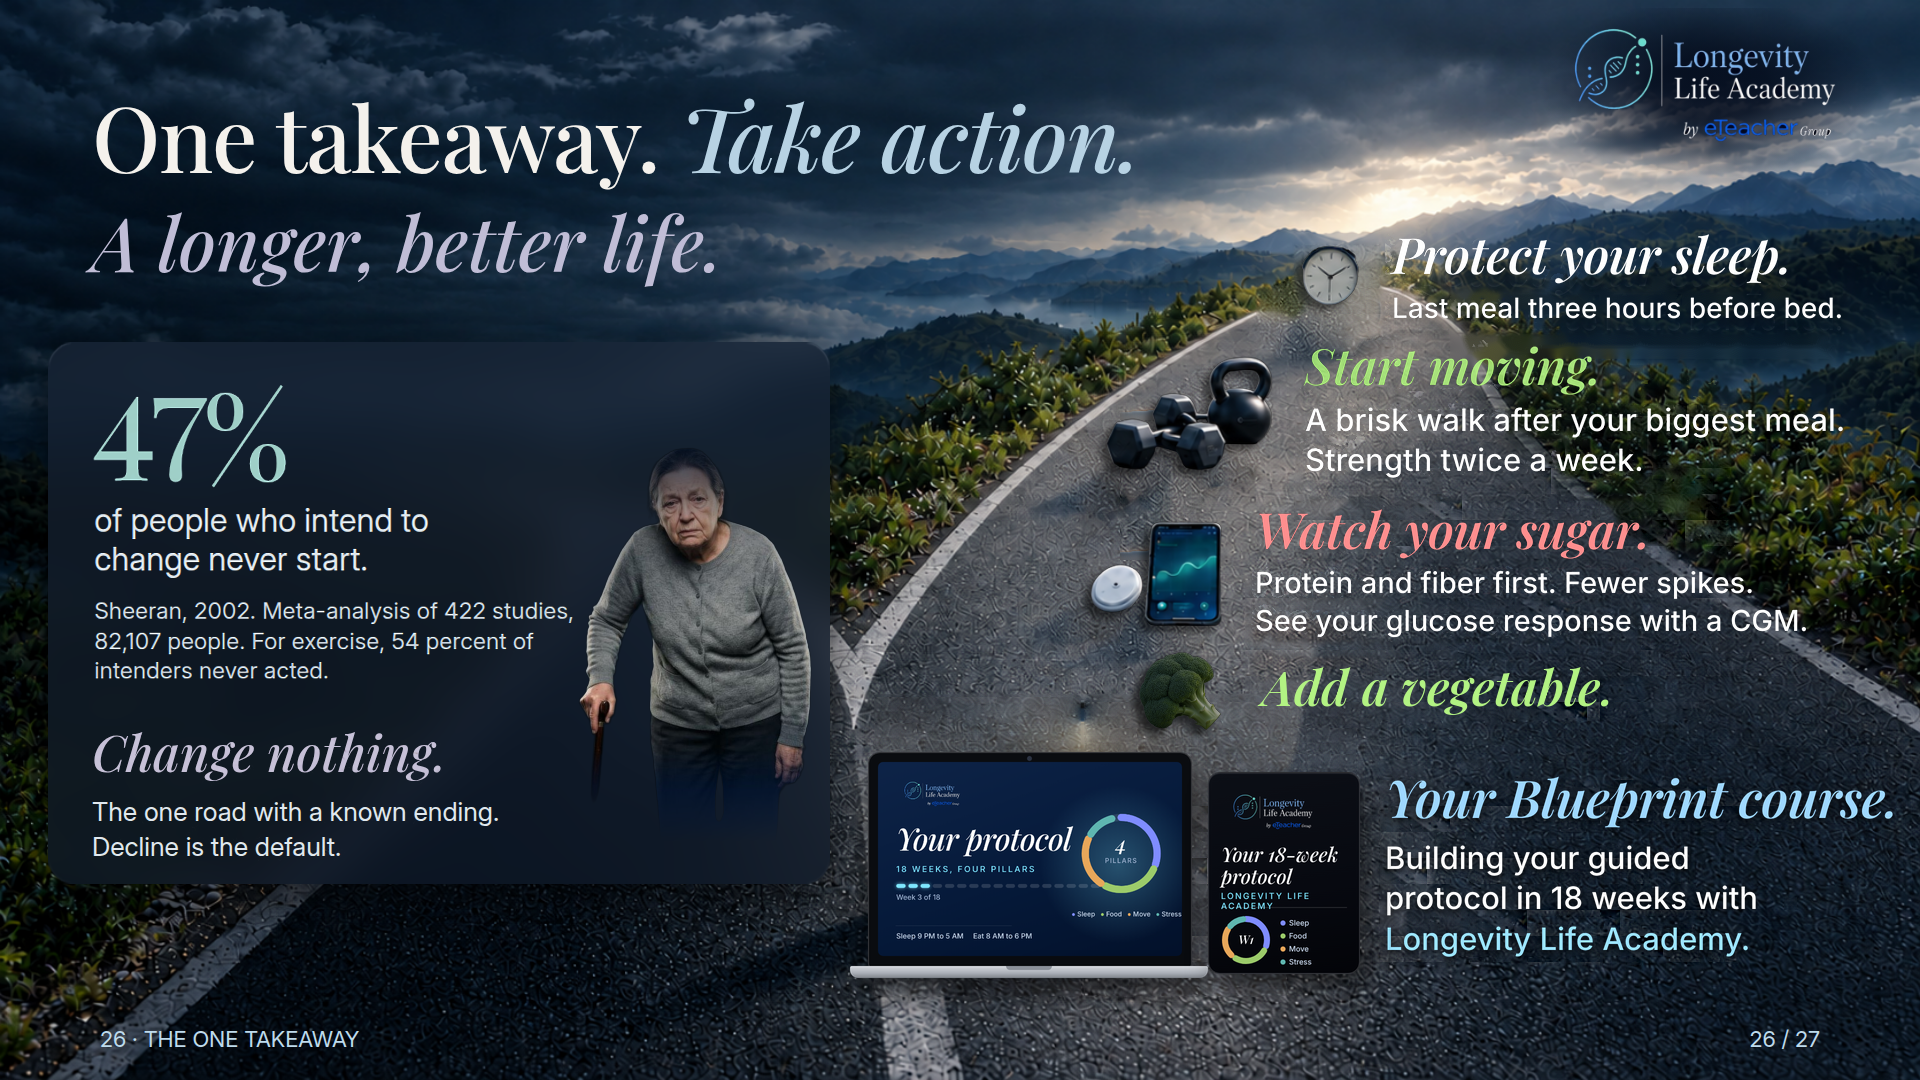
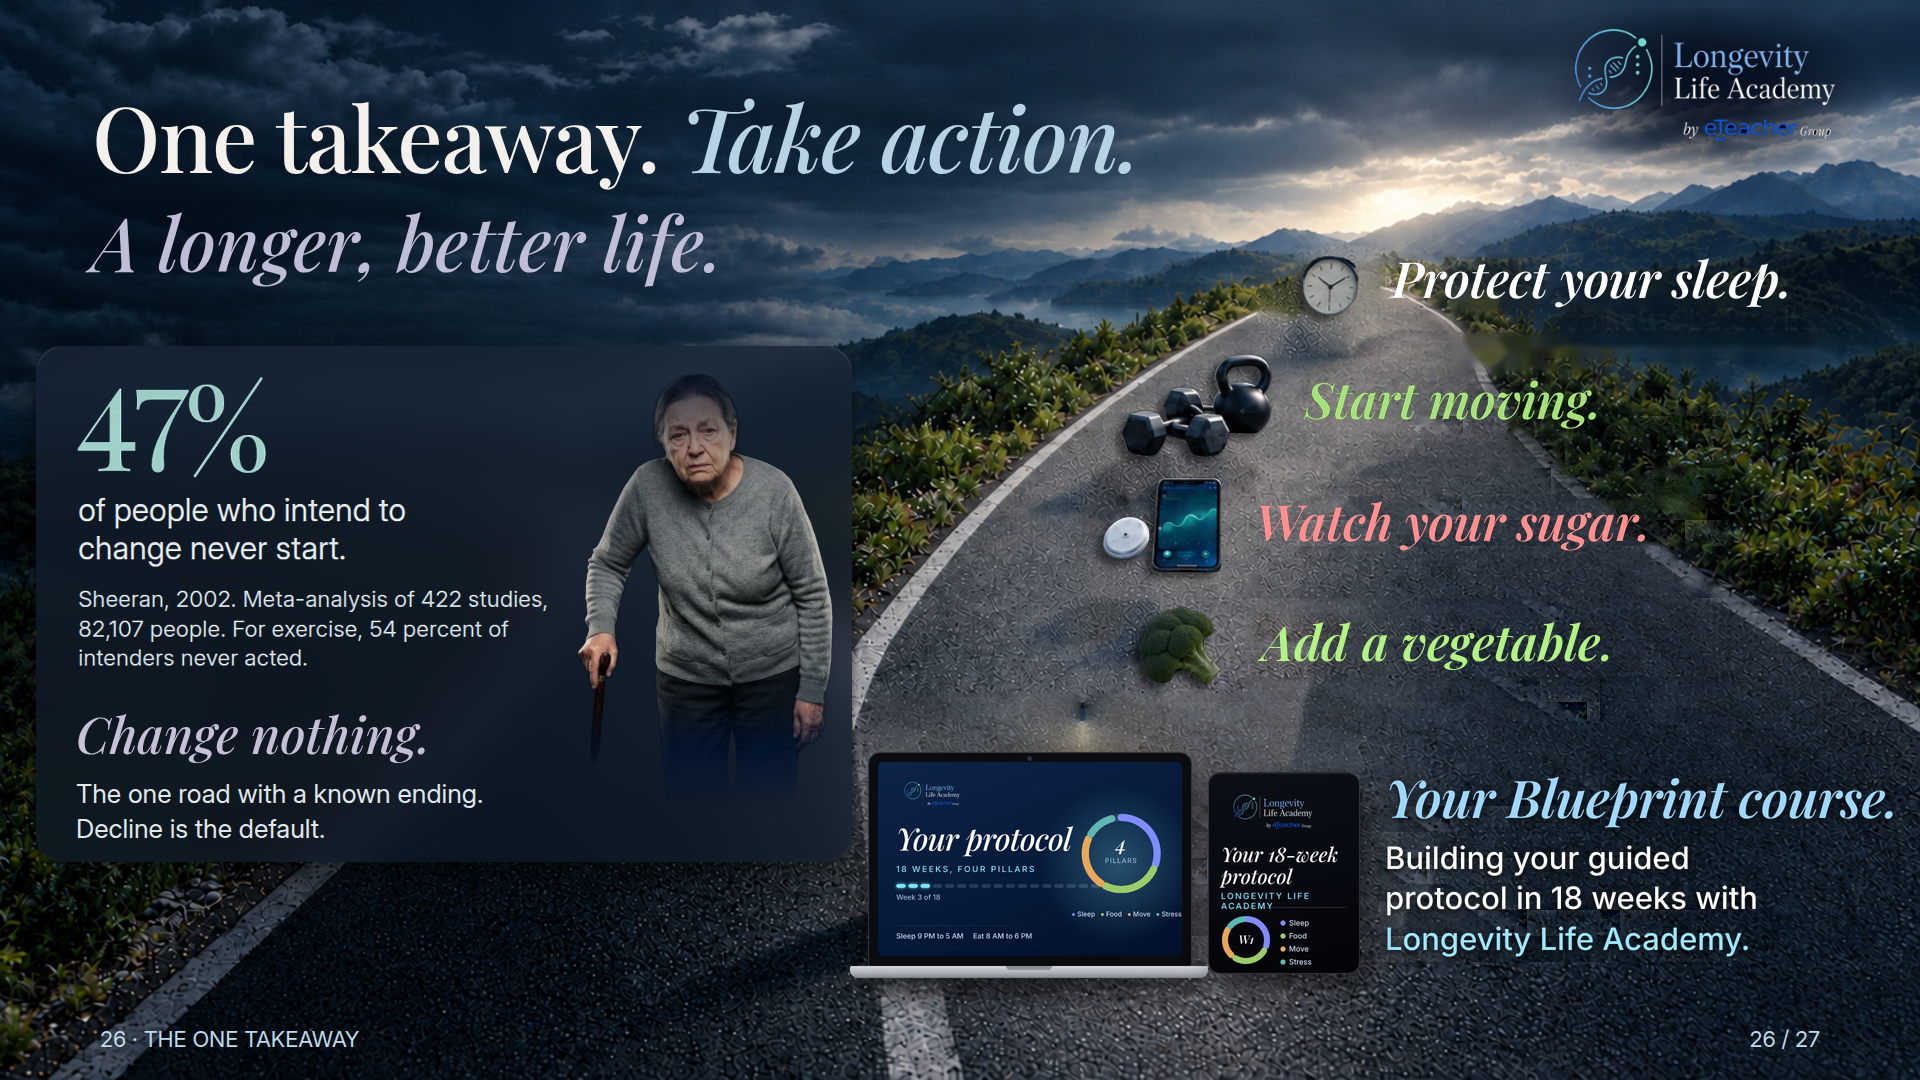
fork-lab: headlines only on right, evenly spaced; wide left card with larger cane woman

Changed region(s): [[0.0, 0.3361, 0.4688, 0.825], [0.5625, 0.2139, 0.9688, 0.7028]]

diff --git a/slide-canvas/fork-lab/index.html b/slide-canvas/fork-lab/index.html
@@ -1,4 +1,4 @@
 <!doctype html><html><head><meta charset="utf-8"><title>Fork lab – slide 26</title>
 <style>body{margin:0;background:#0b1220;color:#dfe7f3;font:15px/1.4 Inter,system-ui,sans-serif}h2{font-weight:500;margin:28px 24px 10px}img{display:block;width:calc(100% - 48px);max-width:1920px;margin:0 24px 24px;border-radius:6px}</style></head>
 <body><h2>Original</h2><img src="original-n25-fork.png?v=1" alt="Original">
-<h2>New</h2><img src="new-n25-fork.png?v=1" alt="New"></body></html>
+<h2>New</h2><img src="new-n25-fork.png?v=2" alt="New"></body></html>

diff --git a/slide-canvas/fork-lab/src/b3.py b/slide-canvas/fork-lab/src/b3.py
@@ -10,11 +10,10 @@ def matte(x0,y0,x1,y1):
     al=np.clip((lum-bl)/np.maximum(tl-bl,25),0,1)*m
     col=np.clip((s-b*(1-al[...,None]))/np.maximum(al[...,None],0.08),0,255)
     return np.dstack([col,al[...,None]*255])
-CX0,CY0,CX1,CY1=48,342,830,884;RAD=26
+CX0,CY0,CX1,CY1=36,346,852,862;RAD=26
 # card base: text-free plate behind (left), blurred + darkened glass
 P=plate.copy()
-reg=P[CY0-40:CY1+40,CX0-40:CX1+40]
-bl=cv2.GaussianBlur(reg,(0,0),22)[40:-40,40:-40]
+bl=cv2.GaussianBlur(P,(0,0),22)[CY0:CY1,CX0:CX1]
 hh,ww=CY1-CY0,CX1-CX0
 yy,xx=np.mgrid[0:hh,0:ww].astype(np.float32)
 navy=np.array([46,28,16],np.float32)   # BGR
@@ -27,7 +26,7 @@ mk=cv2.GaussianBlur(mask.astype(np.float32)/255,(0,0),0.7)
 # drop shadow (depth)
 sh=np.zeros((H,W),np.float32);sh[CY0:CY1,CX0:CX1]=mk;M=np.float32([[1,0,0],[0,1,16]])
 sh=cv2.GaussianBlur(cv2.warpAffine(sh,M,(W,H)),(0,0),22)
-ramp=np.clip((858-np.arange(W))/26,0,1)[None,:];sh=np.maximum(sh*ramp,0)
+ramp=np.clip((859-np.arange(W))/8,0,1)[None,:];sh=np.maximum(sh*ramp,0)
 # R left part: restore text-free plate in left text area first
 lm=np.zeros((H,W),np.uint8);lm[CY0-30:CY1+30,0:CX1+40]=255
 a=cv2.GaussianBlur((tm&lm).astype(np.float32)/255,(0,0),2.5)[...,None]
@@ -47,15 +46,15 @@ def paste(R,lay,x,y,sc=1.0):
     R[y:y+h,x:x+w]=R[y:y+h,x:x+w]*(1-A)+lay[...,:3]*A
 st=matte(88,378,560,668)   # 47% .. intenders never acted
 cn=matte(88,702,505,838)
-TX=88
-SC=1.05
-paste(R,st,TX,382,SC)       # ends 382+290*1.07=692
-paste(R,cn,TX,726)          # ends 862
+TX=72
+SC=1.03
+paste(R,st,TX,374,SC)       # ends 382+290*1.07=692
+paste(R,cn,TX,708)          # ends 862
 # ---- woman
 wm=np.array(Image.open('woman.png')).astype(np.float32);wm=wm[...,[2,1,0,3]]
 wm=wm[25:,90:665]
-sc=238/wm.shape[1];wm=cv2.resize(wm,(int(wm.shape[1]*sc),int(wm.shape[0]*sc)),interpolation=cv2.INTER_AREA)
-WX=CX1-16-wm.shape[1];WY=CY0+104
+sc=262/wm.shape[1];wm=cv2.resize(wm,(int(wm.shape[1]*sc),int(wm.shape[0]*sc)),interpolation=cv2.INTER_AREA)
+WX=CX1-16-wm.shape[1];WY=CY0+26
 hcut=CY1-WY;wm=wm[:hcut].copy()
 # clip to card mask & soft fade at bottom
 cm=mk[WY-CY0:WY-CY0+wm.shape[0],WX-CX0:WX-CX0+wm.shape[1]]

diff --git a/slide-canvas/fork-lab/src/b2.py b/slide-canvas/fork-lab/src/b2.py
@@ -50,7 +50,8 @@ def matte(x0,y0,x1,y1,mask):
     al=np.clip((lum-bl)/np.maximum(tl-bl,25),0,1)*m
     col=np.clip((s-b*(1-al[...,None]))/np.maximum(al[...,None],0.08),0,255)
     return col,al
-for x0,y0,x1,y1,dy in RT:
+HD=[(1385,244,1900,302,285-273),(1300,365,1905,428,405-396),(1250,548,1905,608,525-578)]
+for x0,y0,x1,y1,dy in HD:
     col,al=matte(x0,y0,x1,y1,tm);A=al[...,None]
     R[y0+dy:y1+dy,x0:x1]=R[y0+dy:y1+dy,x0:x1]*(1-A)+col*A
 def put(R,rgba,x,y,shadow=True,sh_op=0.5):
@@ -64,7 +65,7 @@ def obj(n,sc):
     c,ox,oy=L[n];h,w=c.shape[:2];c=cv2.resize(c,(int(round(w*sc)),int(round(h*sc))),interpolation=cv2.INTER_AREA)
     a=(c[...,3]>20);ys,xs=np.where(a);return c,xs.min(),ys.min(),xs.max(),ys.max()
 GAP=36
-rows=[('clock',1.0,1394,(232+317)/2),('dumb',0.88,1307,(347+480)/2),('cgm',0.88,1257,(510+637)/2)]
+rows=[('clock',1.0,1394,285),('dumb',0.8,1307,405),('cgm',0.8,1257,525)]
 for n,sc,tl,cy in rows:
     c,a0,b0,a1,b1=obj(n,sc);x=int(tl-GAP-a1);y=int(cy-(b0+b1)/2);put(R,c,x,y);print(n,x+a0,y+b0,x+a1,y+b1)
 # ---- veg headline
@@ -75,7 +76,7 @@ except Exception as e:print('var',e)
 bb=f.getbbox('Watch your sugar.');print('wys bbox',bb)
 # green color from Start moving headline
 s=O[370:412,1305:1600];g=s[((s[...,1]-s[...,2])>60)];gc=np.median(g[g[:,1]>np.percentile(g[:,1],80)],0);print('green',gc)
-VT=667; VX=1257
+VT=622; VX=1257
 txt=Image.new('L',(640,140),0);d=ImageDraw.Draw(txt)
 # position so glyph top aligns like sugar headline: sugar glyph top 555 for left 1262
 d.text((10-bb[0]+ (1262-1257) ,20-bb[1]),'Add a vegetable.',font=f,fill=255)
